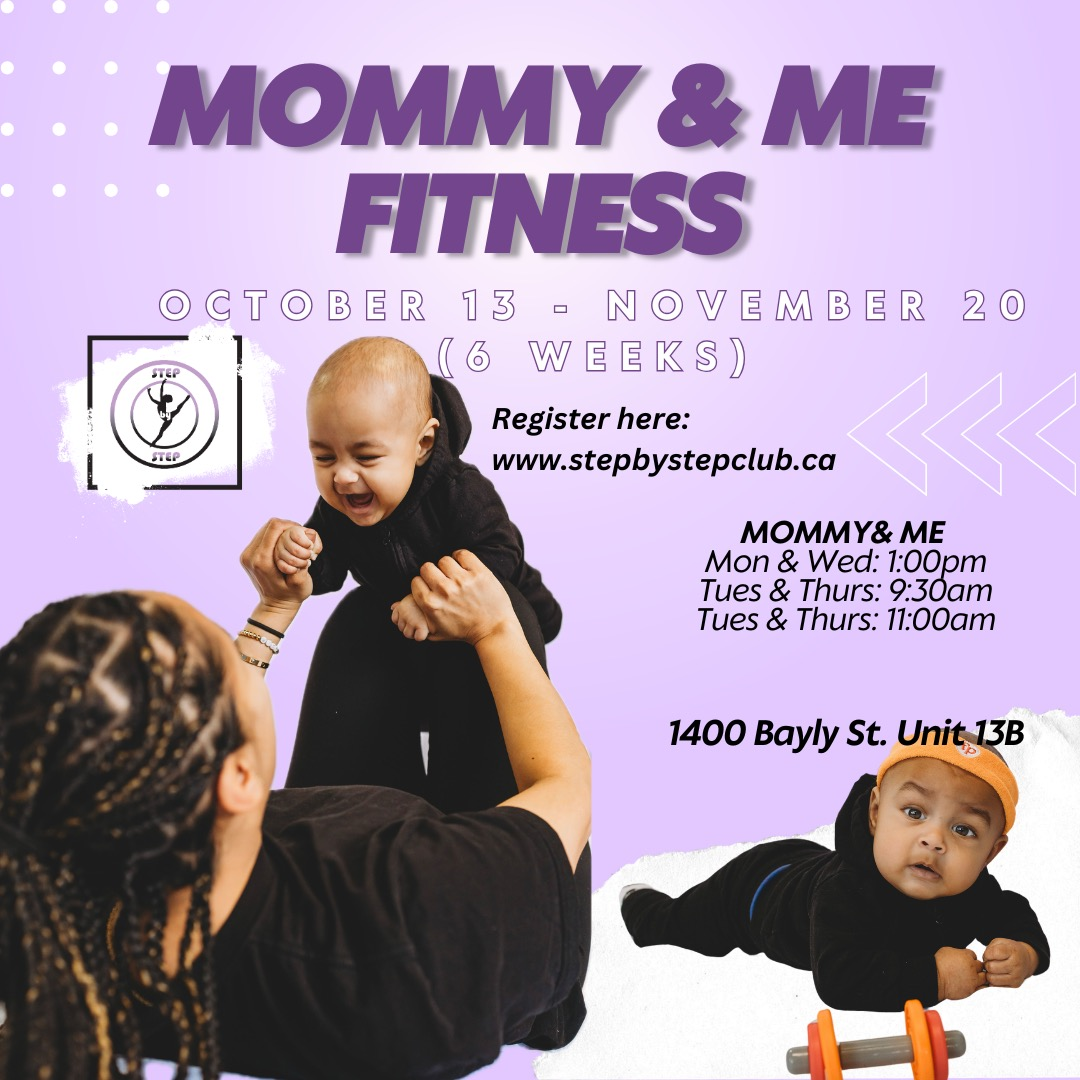
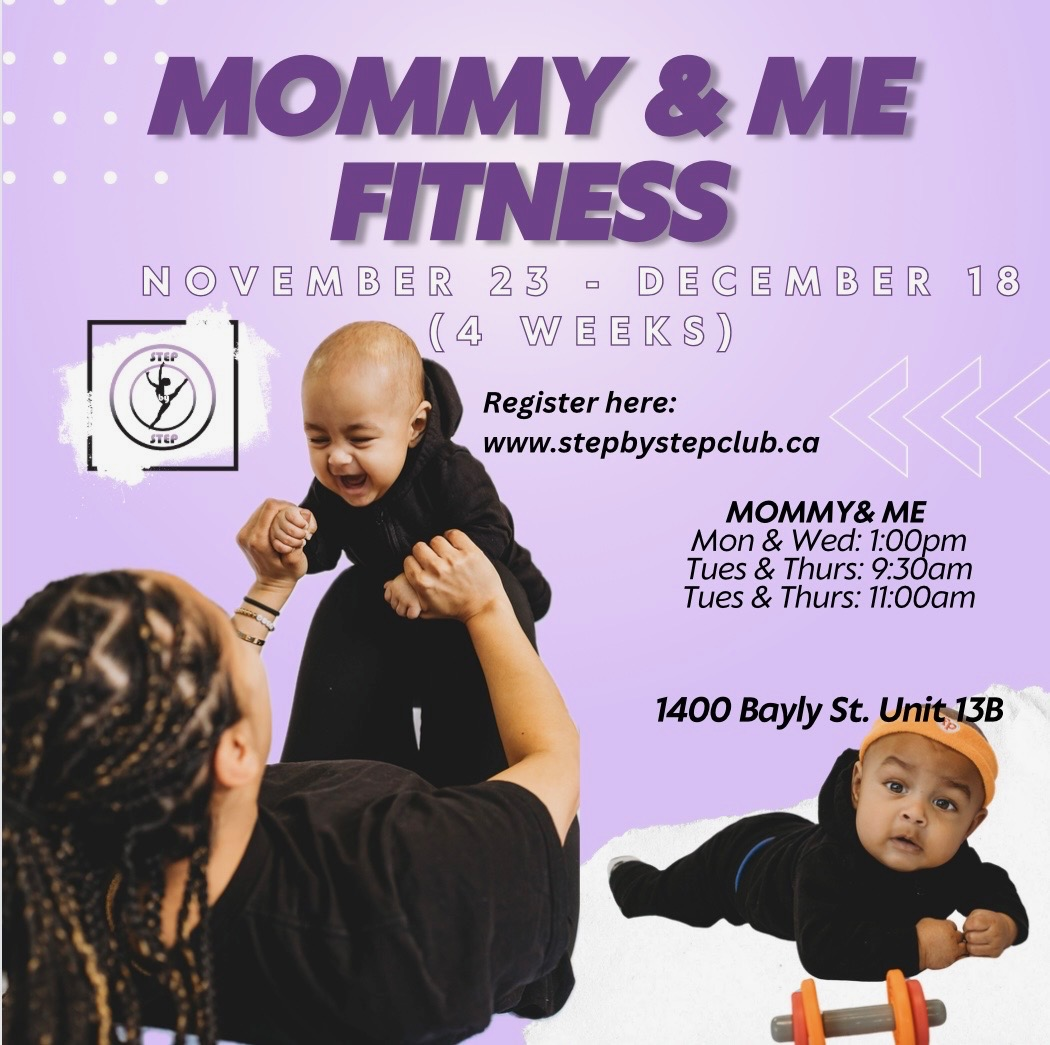
add special events image and link

diff --git a/client/src/pages/SpecialEvents/SpecialEvents.js b/client/src/pages/SpecialEvents/SpecialEvents.js
@@ -3,7 +3,6 @@ import { useState } from "react";
 import specialEvents3 from "../../assets/images/smallgrouptrain.jpeg";
 import specialEvents4 from "../../assets/images/mom-fitness.jpeg";
 import specialEvents8 from "../../assets/images/strollerfit.jpeg";
-import specialEvents10 from "../../assets/images/cinderella.jpeg";
 import specialEvents11 from "../../assets/images/halloweenparty.jpeg";
 import specialEvents12 from "../../assets/images/trickortreat.jpeg";
 import specialEvents13 from "../../assets/images/soca.jpeg";
@@ -43,12 +42,6 @@ const SpecialEvents = () => {
     );
   };
 
-  const linkToBuyTickets8 = () => {
-    openRegistrationLink(
-      "https://www.wellnessliving.com/rs/event/step_by_step_club?k_class=1029530&k_class_tab=66373",
-      "cinderella",
-    );
-  };
 
   const linkToBuyTickets9 = () => {
     openRegistrationLink(
@@ -132,23 +125,6 @@ const SpecialEvents = () => {
           <button
             className="special-events__button"
             onClick={linkToBuyTickets7}
-          >
-            Click Here to Register!
-          </button>
-        </div>
-      </div>
-
-      <div className="special-events__card-wrapper">
-        <div className="special-events__image-container">
-          <img
-            src={specialEvents10}
-            alt="Special Event"
-            className="special-events__image"
-            onClick={() => openMedia(specialEvents10)}
-          />
-          <button
-            className="special-events__button"
-            onClick={linkToBuyTickets8}
           >
             Click Here to Register!
           </button>
